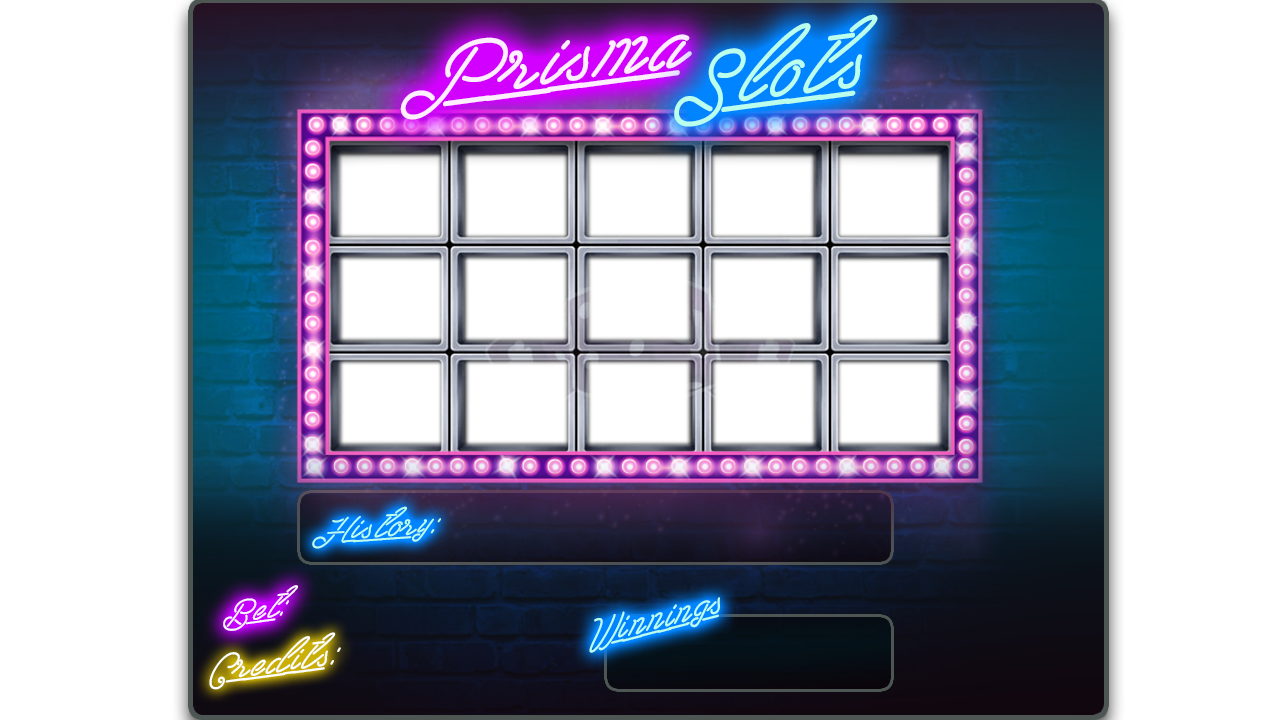
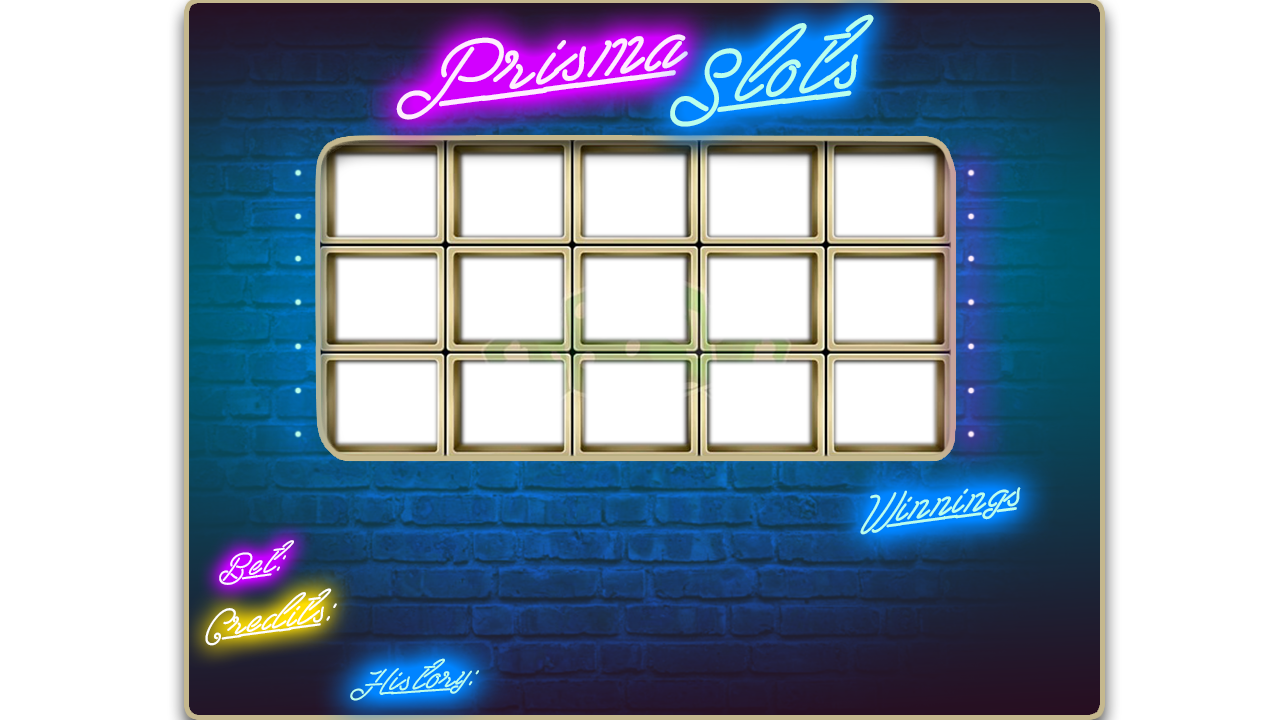
previous version

diff --git a/html - old/design.css b/html - old/design.css
@@ -59,7 +59,7 @@ display:block;
  
   margin-bottom: auto;
   margin-top:auto;
-  padding: 0 0 18px;
+  padding: 0 0 16px;
 display:block;
 
   position:auto;
@@ -82,7 +82,7 @@ display:block;
 #aio {
   margin: 0 auto;
   width: 1000px;
-  margin-top: 2%;
+  margin-top: 3%;
   padding: 0 0 40px;
 
   position:relative;
@@ -95,7 +95,7 @@ display:block;
   font-size: 24px;
   color: #011627;
   font-weight: 300;
-  top: 14.0%;
+  top: -19.0%;
   left: 22%; right: 20%;
 }
 
@@ -112,7 +112,7 @@ display:block;
   font-size: 24px;
   color: #011627;
   font-weight: 300;
-  top: -9.8%;
+  top: -41.8%;
   left: 18%; right: 20%;
 }
 
@@ -122,54 +122,20 @@ display:block;
 
 .cHistory li {
   display: inline;
-  margin-left: 38px;
+  margin-left: 42px;
 }
-#paytable {
-	
-    margin-left: auto;
-  margin-right: auto;
-  margin-bottom: auto;
-  margin-top:auto;
-  padding: 0 0 40px;
 
-
-  position:fixed;
-  z-index:6;
- pointer-events:none;
-}
-.myfunction {
-	 text-shadow: 1px 1px 1px black;
-  position:absolute;
-	z-index:6;
-  left: 77.5%;
-  top: -20.5%;
-  border: none;
-  color: white;
- padding:14px 82px;
-  text-align: center;
-  text-decoration: none;
-  display: inline-block;
-  font-size: 16px;
-  margin: 1px 2px;
-  cursor: pointer;
-  border-radius: 4px;
-  background-image: url("img/table.png");
-  background-position:-35px -36px;
-  transition: .2s all;
-}
 .cHistory {
-position:absolute;
+
   font-size: 20px;
   margin-top: -90px;
   padding-top: 10px;
   width: 500px;
   height: 50px;
-top:-12%;
-left:20%;
+
   padding-bottom: 0px;
   border-radius: 0 0 20px 20px;
   text-align: left;
-  z-index:7;
 }
 
 .win {
@@ -177,18 +143,18 @@ left:20%;
   font-size: 26px;
   text-shadow: 1px 1px 1px black;
   color: #FFD700;
-      top: 2%;
-  left: 60%; right: 19.8%;
+      top: -59.8%;
+  left: 80%; right: 19.8%;
 }
 
 .dblOrNothing {
   position: absolute;
-  float: right;
+  float: left;
   font-size: 16px;
   text-shadow: 1px 1px 1px rgba(0,0,0,.5);
   color: #fff;
-    top: -33.8%;
-  left: 80%; 
+    top: -45.8%;
+  left: 25%; right: 19.8%;
 }
 
 #ownedBet {
@@ -247,9 +213,9 @@ left:20%;
   width: 126px;
   height: 112px;
   box-sizing: border-box;
-  opacity: 1;
+  opacity: 0.9;
   color: rgba(0,0,0,1);
-  background: #180024;
+  background: #011627;
   border: solid 2px #000;
   -webkit-backface-visibility: hidden;
      -moz-backface-visibility: hidden;
@@ -277,8 +243,8 @@ left:20%;
 .betUp {
   text-shadow: 1px 1px 1px black;
   position: absolute;
-  left: 77.9%;
-  top: -50.8%;
+  left: 23.3%;
+  top: -62.8%;
   border: none;
   color: white;
   padding: 6px 15px;
@@ -301,8 +267,8 @@ left:20%;
 .AllIn {
   text-shadow: 1px 1px 1px black;
   position: absolute;
-  left: 85.9%;
- top: -50.8%;
+  left: 30.9%;
+  top: -62.8%;
   border: none;
   color: white;
   padding: 6px 15px;
@@ -318,29 +284,27 @@ left:20%;
 }
 
 
-
-.go:hover {
-  background-image: url("img/butbg-hover.png");
-
+.zindex {
+	
 }
 .go {
   text-shadow: 1px 1px 1px black;
   position:absolute;
 	
-  left: 77.5%;
-  top: 5.5%;
+  left: 69.5%;
+  top: -21.5%;
   border: none;
   color: white;
- padding:33px 82px;
+ padding:30px 88px;
   text-align: center;
   text-decoration: none;
   display: inline-block;
   font-size: 16px;
   margin: 1px 2px;
   cursor: pointer;
-  border-radius: 4px;
+  border-radius: 8px;
   background-image: url("img/butbg.png");
-  background-position:-35px;
+  background-position:-9px;
   transition: .2s all;
 
 }

diff --git a/html - old/ui.html b/html - old/ui.html
@@ -8,16 +8,11 @@
 
  </head>
   <body>
-  		
-
-
   <div class="imgset">
   <div class="img-wrap">
   <!-- <div class="imgback"><img src="img/background.png" height="720" width="1280" align="middle" stroke="none" ></div> -->
-	   <div id="paytable" style="display:block;">
-
- <div class="imgover"><img src="img/paytable.png" height="720" width="1280" align="middle" stroke="none" ></div>
-</div>
+	   
+		 
 		 <div id="overlay">
  <div class="imgover"><img src="img/overlay.png" height="720" width="1280" align="middle" stroke="none" ></div>
   </div>
@@ -30,15 +25,7 @@
 </div>
 ´</div>
  
-<script type="text/javascript">
-function toggleContent() {
-  // Get the DOM reference
-  var contentId = document.getElementById("paytable");
-  // Toggle 
-  contentId.style.display == "block" ? contentId.style.display = "none" : 
-contentId.style.display = "block"; 
-}
-</script>
+  
 
 
     <div id="stage">
@@ -56,12 +43,12 @@ contentId.style.display = "block";
     </div>
 	<div id="aio">
 	<div class="comenzi">
-		<button class="myfunction"onclick="toggleContent()"></button>
+		
           <span class="dblOrNothing"><span style="color: #F15152;">Double</span> or <span style="color: #011627;">Nothing</span></span>
           <span class="win"><br/><span id="win">0</span>$</span>
           <span class="ownedCoins"> <span id="ownedCoins">0</span> $</span>
           <span class="ownedBet"> <span id="ownedBet">0</span> $</span>
-          <button class="go"></button>
+          <button class="go">SPIN</button>
           <button class="betUp">+BET</button>
           <button class="AllIn">ALL IN</button> 
         </div>

diff --git a/html - old/script.js b/html - old/script.js
@@ -30,7 +30,7 @@ var winTable = [
   [1,1,1,2,3.5], // Prune
   [1,1,1,2,3.5], // Lamai
   [1,1,2,2.5,5], // Portocale
-  [1,1,2.5,3,6], // Struguri
+  [1,1,2.2,3,6], // Struguri
   [1,1,3.5,4,10], // Pepene
   [1,1,10,80,350] // Septar
 ];
@@ -83,8 +83,6 @@ function playAudio(audioName) {
     }
   }
 }
-
-
 
 function insertCoin(amount) {
   coins += amount;
@@ -161,7 +159,7 @@ function endWithWin(x, sound) {
 
   $('.betUp').empty().append("RED");
   $('.AllIn').empty().append("BLACK");
-  $('.go').empty().append("");
+  $('.go').empty().append("Take");
 
   canDouble = x;
 
@@ -182,7 +180,7 @@ function looseDouble() {
 
   $('.betUp').empty().append("+BET");
   $('.AllIn').empty().append("ALL IN");
-  $('.go').empty().append("");
+  $('.go').empty().append("SPIN");
 }
 
 function voteColor(x, color) {
@@ -460,7 +458,7 @@ window.addEventListener('message', function(event) {
 /// Everything it's possible !
 
 $(document).ready(function() {
-	allFile = $("#stage, #overlay,#aio, .imgback, #paytable");
+	allFile = $("#stage, #overlay,#aio, .imgback");
 	
   allFile.css("display", "none");
   createSlots($('#ring1'), 1);
